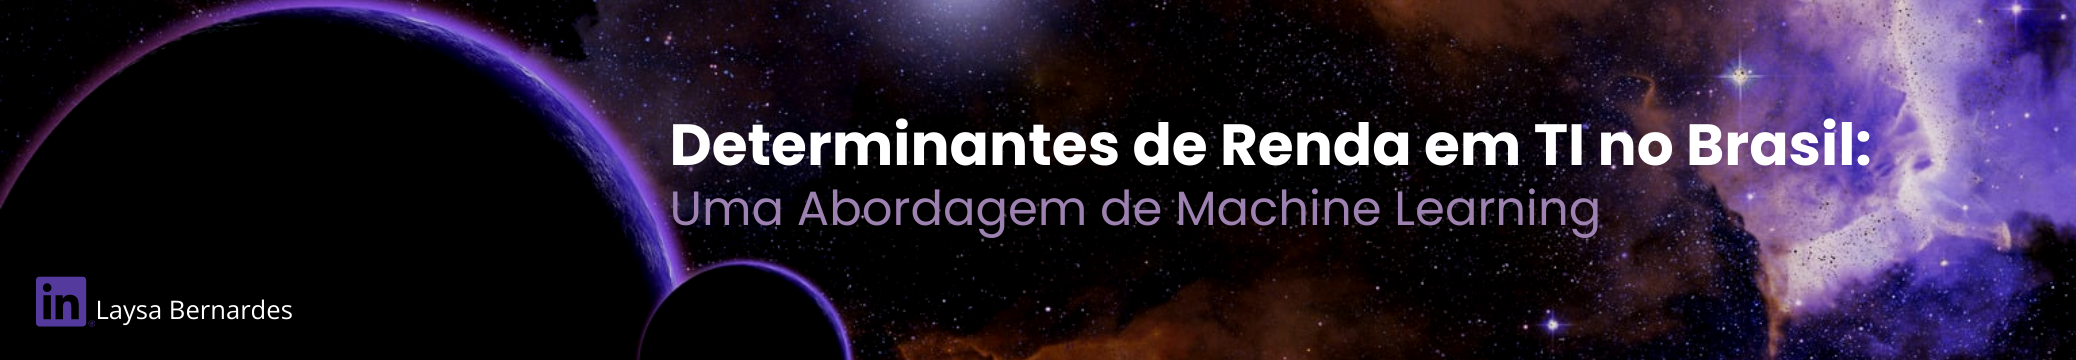
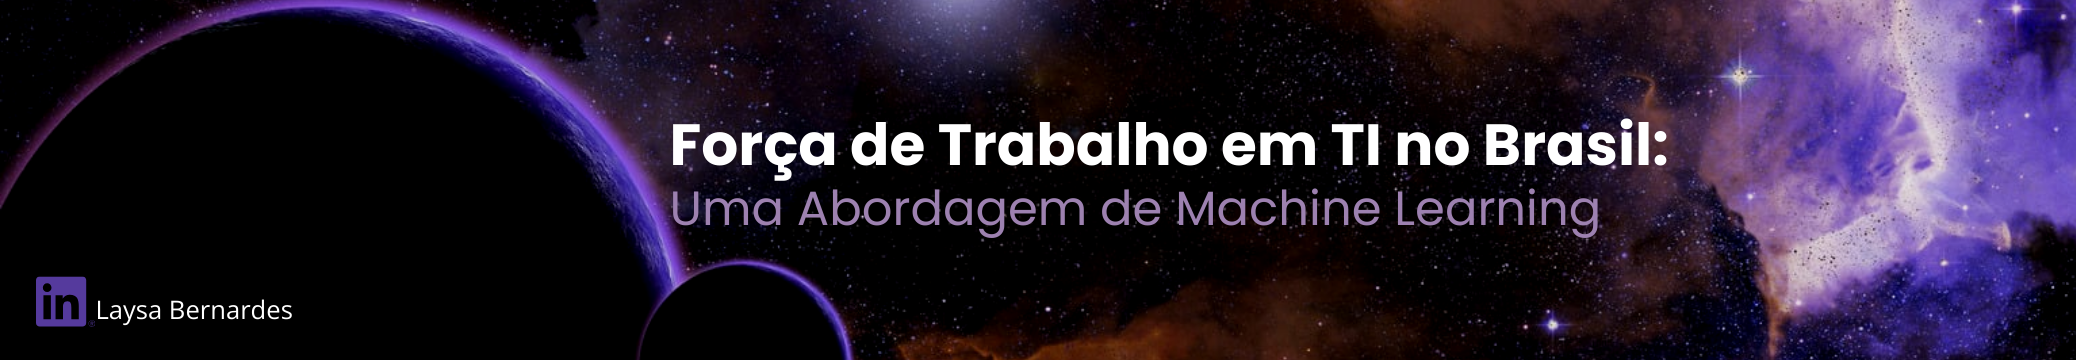
docs: ajuste nome do projeto

Changed region(s): [[0.3083, 0.3361, 0.9249, 0.5194]]

diff --git a/app.py b/app.py
@@ -3,13 +3,13 @@ import pandas as pd
 import plotly.express as px
 
 st.set_page_config(
-    page_title="Determinantes de Renda TI | Machine Learning", 
+    page_title="Força de Trabalho em TI no Brasil | Machine Learning", 
     page_icon="💻", 
     layout="wide"
 )
 
 # No título principal do dashboard
-st.title("💻 Determinantes de Renda em TI no Brasil: Uma Abordagem de Machine Learning")
+st.title("💻 Força de Trabalho em TI no Brasil: Uma Abordagem de Machine Learning")
 
 # Estilização customizada
 st.markdown("""

diff --git a/README.md b/README.md
@@ -4,7 +4,7 @@
 <div align="center">
 
 <img 
-  src="./assets/header.png" 
+  src="./assets/capa.png" 
   alt="Força de Trabalho em Tecnologia no Brasil" 
   width="100%" 
   height="260px"
